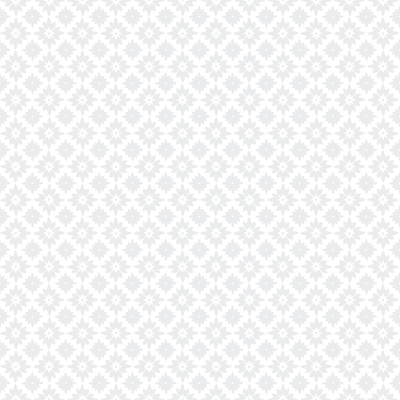
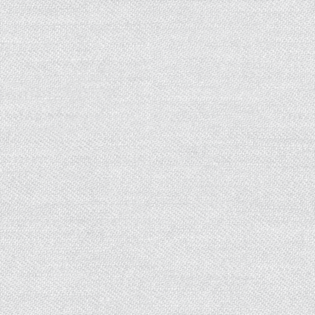
Site updated: 2022-04-20 20:22:15

diff --git a/css/main.css b/css/main.css
@@ -2746,7 +2746,7 @@ body {
   }
 }
 body {
-  background-image: url("/images/moroccan-flower.png");
+  background-image: url("/images/3cfe4fed81e01031247eb963e0f8e5d.jpg");
   background-size: cover;
   background-repeat: no-repeat;
   background-attachment: fixed;
